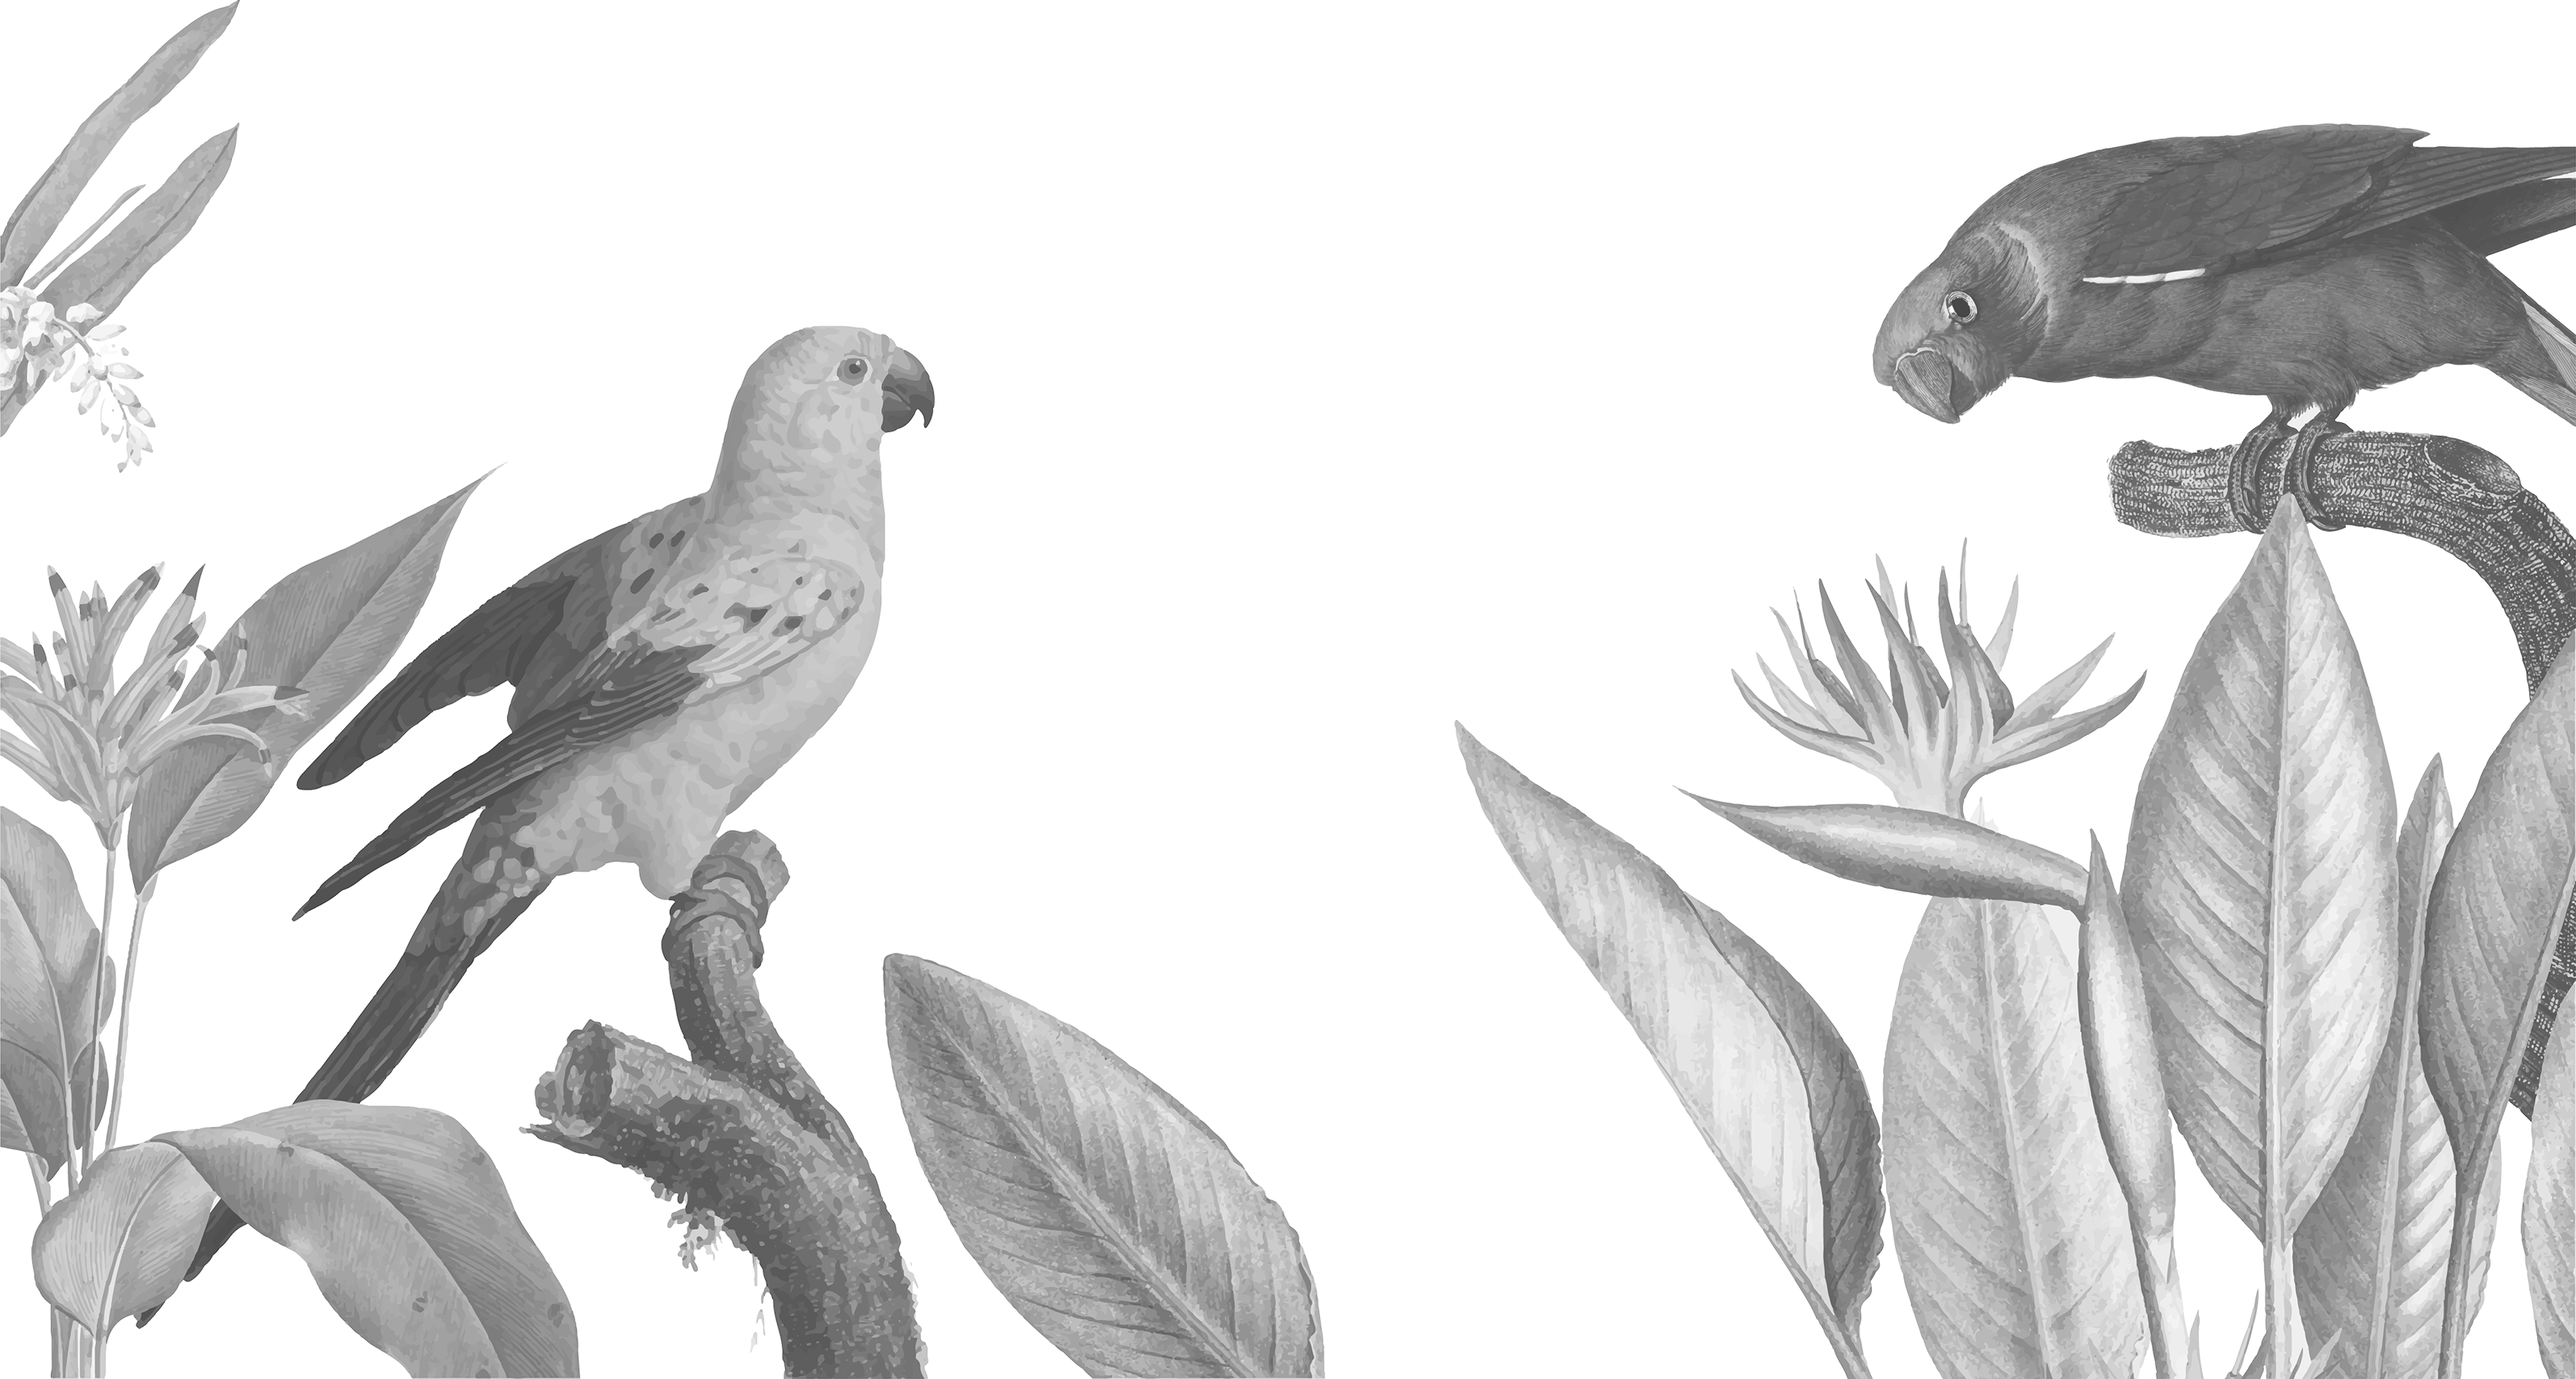
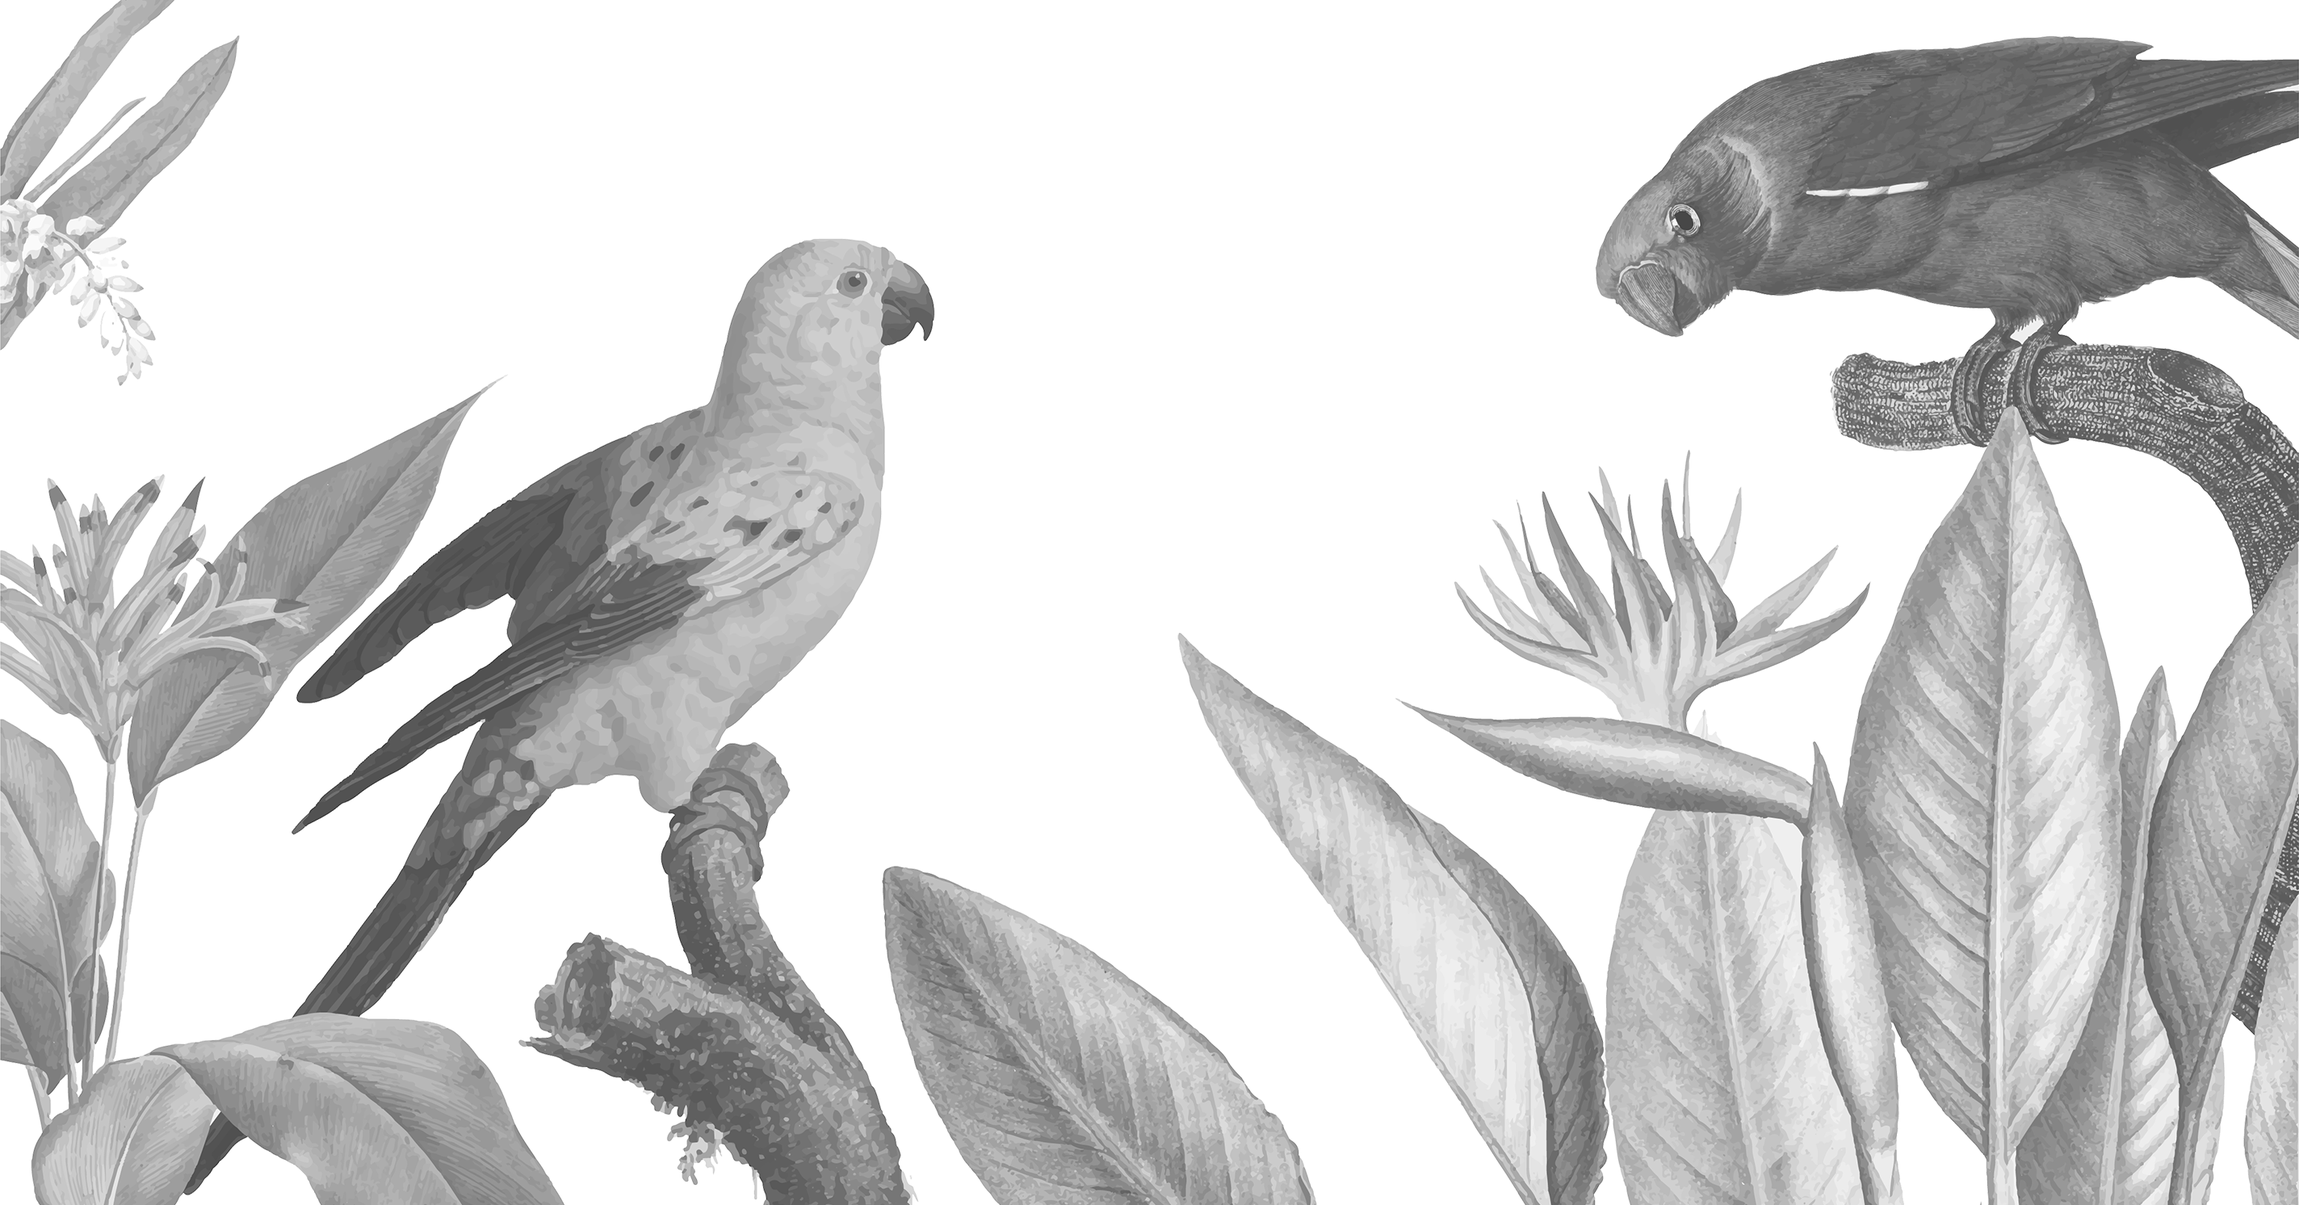
Fix sfondo macaw

diff --git a/assets/js/paroparo.js b/assets/js/paroparo.js
@@ -13,7 +13,7 @@ $(document).ready(function () {
         }
   });
 
-  if($('#mapid')) {
+  if($('#mapid').length) {
 	var mymap = L.map('mapid').setView([43.598508, 11.468536], 13);
 
 	L.tileLayer('https://api.mapbox.com/styles/v1/{id}/tiles/{z}/{x}/{y}?access_token=pk.eyJ1IjoibWFwYm94IiwiYSI6ImNpejY4NXVycTA2emYycXBndHRqcmZ3N3gifQ.rJcFIG214AriISLbB6B5aw', {
@@ -26,15 +26,15 @@ $(document).ready(function () {
 	}).addTo(mymap);
 
     var circle = L.circle([43.598508, 11.468536], {
-        color: '#FF6933',
-        fillColor: '#FF6933',
+        color: '#186e64',
+        fillColor: '#186e64',
         fillOpacity: 0.3,
         radius: 2000
     }).addTo(mymap);
     circle.bindPopup('<div class="container"><div class="row"><div class="col-12"><h4>{{site.title}}</h4><p class="mt-0 mb-2">{{site.description | escape}}</p><h6 class="mb-0">Indirizzo</h6><address>{{site.address}}<br>{{site.city}}</address><a target="_blank" href="{{site.url}}">Sito Web</a></div></div></div>').openPopup();
   }
 
-  if($('#pageclip-form')) {
+  if($('#pageclip-form').length) {
       var form = $('#pageclip-form');
       Pageclip.form(form, {
         successTemplate: '<span>Grazie della richiesta!<span class="mdi mdi-heart"></span></span>'

diff --git a/_layouts/contact.html b/_layouts/contact.html
@@ -2,7 +2,7 @@
 layout: default
 ---
 
-  <section class="has-divider text-light jarallax bg-dark" data-jarallax data-speed="0.5" data-overlay>
+  <section class="has-divider text-light jarallax bg-dark" data-jarallax data-speed="0.5" data-overlay data-img-position="30% 60%">
     <img src="{{ '/assets/img/sfondo_macaw.png' | relative_url }}" alt="" class="jarallax-img opacity-50">
     <div class="container">
         <div class="row">
@@ -104,7 +104,7 @@ layout: default
               </div>
               <div class="col">
                 <button type="submit" class="btn btn-primary btn-loading pageclip-form__submit" >
-                  <span>Invia</span>
+                  <span>Invia Messaggio</span><span class="ml-1 mdi mdi-send"></span>
                 </button>
               </div>
             </div>

diff --git a/_layouts/about.html b/_layouts/about.html
@@ -2,7 +2,7 @@
 layout: default
 ---
 
-<section class="has-divider text-light jarallax bg-dark" data-jarallax data-speed="0.5" data-overlay>
+<section class="has-divider text-light jarallax bg-dark" data-jarallax data-speed="0.5" data-overlay data-img-position="30% 60%">
     <img src="{{ '/assets/img/sfondo_macaw.png' | relative_url }}" alt="" class="jarallax-img opacity-50">
     <div class="container">
         <div class="row">

diff --git a/_layouts/blog.html b/_layouts/blog.html
@@ -2,7 +2,7 @@
 layout: default
 ---
 
-<section class="has-divider text-light jarallax bg-dark" data-jarallax data-speed="0.5" data-overlay>
+<section class="has-divider text-light jarallax bg-dark" data-jarallax data-speed="0.5" data-overlay data-img-position="30% 60%">
     <img src="{{ '/assets/img/sfondo_macaw.png' | relative_url }}" alt="" class="jarallax-img opacity-50">
     <div class="container">
         <div class="row">

diff --git a/_layouts/feed.html b/_layouts/feed.html
@@ -2,7 +2,7 @@
 layout: default
 ---
 
-<section class="has-divider text-light jarallax bg-dark" data-jarallax data-speed="0.5" data-overlay>
+<section class="has-divider text-light jarallax bg-dark" data-jarallax data-speed="0.5" data-overlay data-img-position="30% 60%">
     <img src="{{ '/assets/img/sfondo_macaw.png' | relative_url }}" alt="" class="jarallax-img opacity-50">
     <div class="container">
         <div class="row">

diff --git a/_layouts/home.html b/_layouts/home.html
@@ -2,7 +2,7 @@
 layout: default
 ---
 
-<section class="bg-primary text-light o-hidden has-divider jarallax" data-jarallax data-speed="0.5" >
+<section class="bg-primary text-light o-hidden has-divider jarallax" data-jarallax data-speed="0.5">
   <img src="{{ '/assets/img/sfondo.jpg' | relative_url }}" alt="" class="jarallax-img opacity-80">
     <div class="container">
       <div class="row align-items-center min-vh-50">
